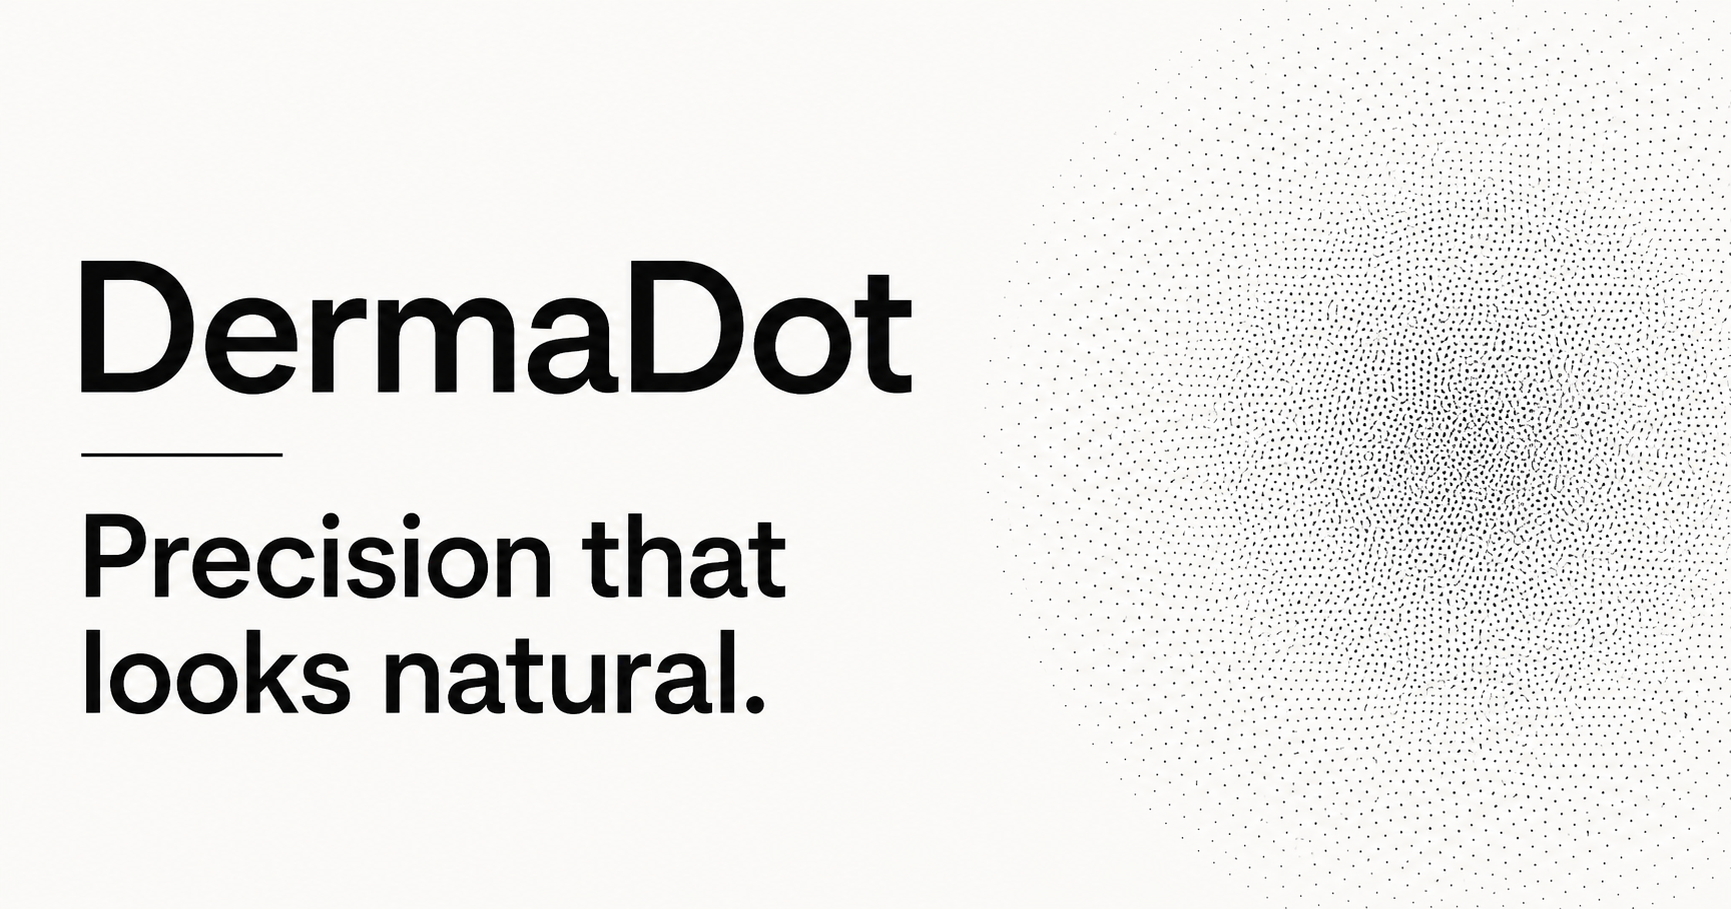
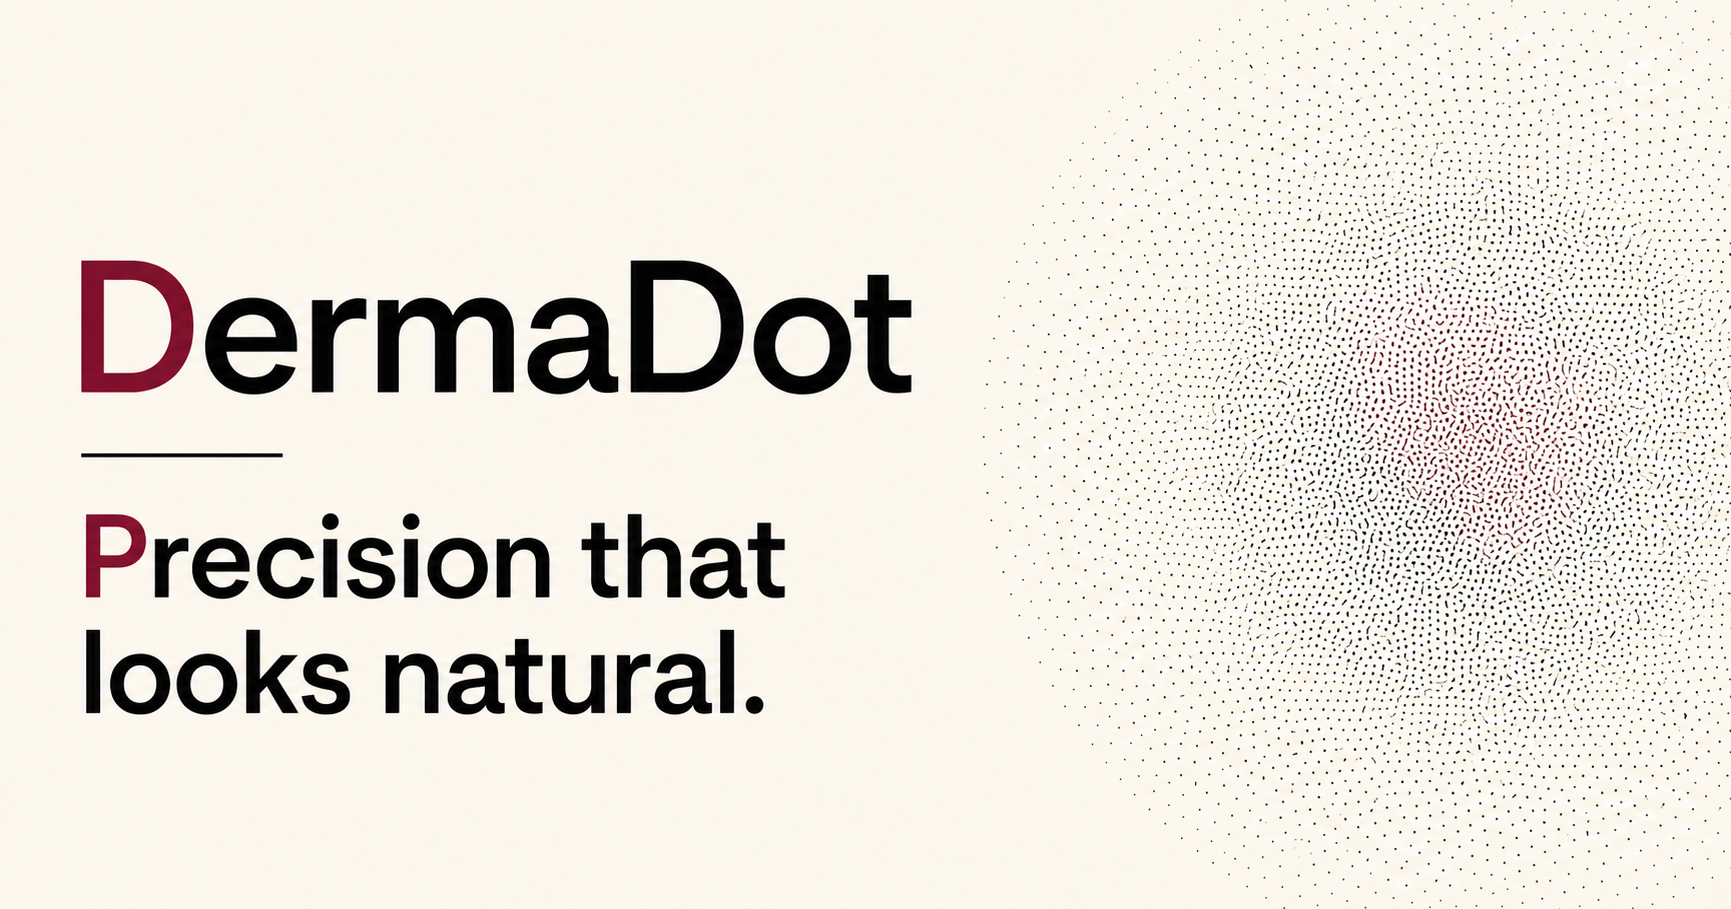
Warm DermaDot palette with Bordeaux accents

diff --git a/app/globals.css b/app/globals.css
@@ -2,11 +2,12 @@
 
 :root {
   --ink: #0a0a0a;
-  --paper: #f7f7f5;
-  --white: #ffffff;
-  --soft: #ededeb;
-  --mid: #9a9a96;
-  --line: #d7d7d3;
+  --paper: #fbf6eb;
+  --white: #fffdf8;
+  --soft: #f0e8da;
+  --mid: #9b9388;
+  --line: #dcd2c3;
+  --bordeaux: #721b32;
   --font: var(--font-geist), Arial, sans-serif;
 }
 
@@ -97,19 +98,23 @@ a {
 .brand-mark::before {
   width: 22px;
   height: 22px;
-  border: 1px solid var(--mid);
+  border: 1px solid var(--bordeaux);
 }
 
 .brand-mark::after {
   width: 5px;
   height: 5px;
-  background: var(--ink);
+  background: var(--bordeaux);
 }
 
 .brand-name {
   font-size: 20px;
   font-weight: 600;
   letter-spacing: -0.04em;
+}
+
+.brand-name::first-letter {
+  color: var(--bordeaux);
 }
 
 .lang-toggle {
@@ -136,7 +141,7 @@ a {
 }
 
 .lang-toggle .active {
-  color: var(--ink);
+  color: var(--bordeaux);
   font-weight: 700;
 }
 
@@ -176,7 +181,7 @@ a {
 }
 
 .nav-link.active {
-  color: var(--ink);
+  color: var(--bordeaux);
   font-weight: 650;
 }
 
@@ -186,7 +191,7 @@ a {
   bottom: -1px;
   left: 14px;
   height: 2px;
-  background: var(--ink);
+  background: var(--bordeaux);
   content: "";
 }
 
@@ -236,7 +241,7 @@ a {
 .eyebrow::before {
   width: 6px;
   height: 6px;
-  background: var(--ink);
+  background: var(--bordeaux);
   border-radius: 50%;
   content: "";
 }
@@ -255,6 +260,12 @@ h1 {
   font-weight: 520;
   letter-spacing: -0.075em;
   line-height: 0.88;
+}
+
+h1::first-letter,
+.section h2::first-letter,
+.footer-name::first-letter {
+  color: var(--bordeaux);
 }
 
 .hero-lede {
@@ -719,7 +730,7 @@ h1 {
 .appointment-only::before {
   width: 7px;
   height: 7px;
-  background: var(--ink);
+  background: var(--bordeaux);
   border-radius: 50%;
   content: "";
 }
